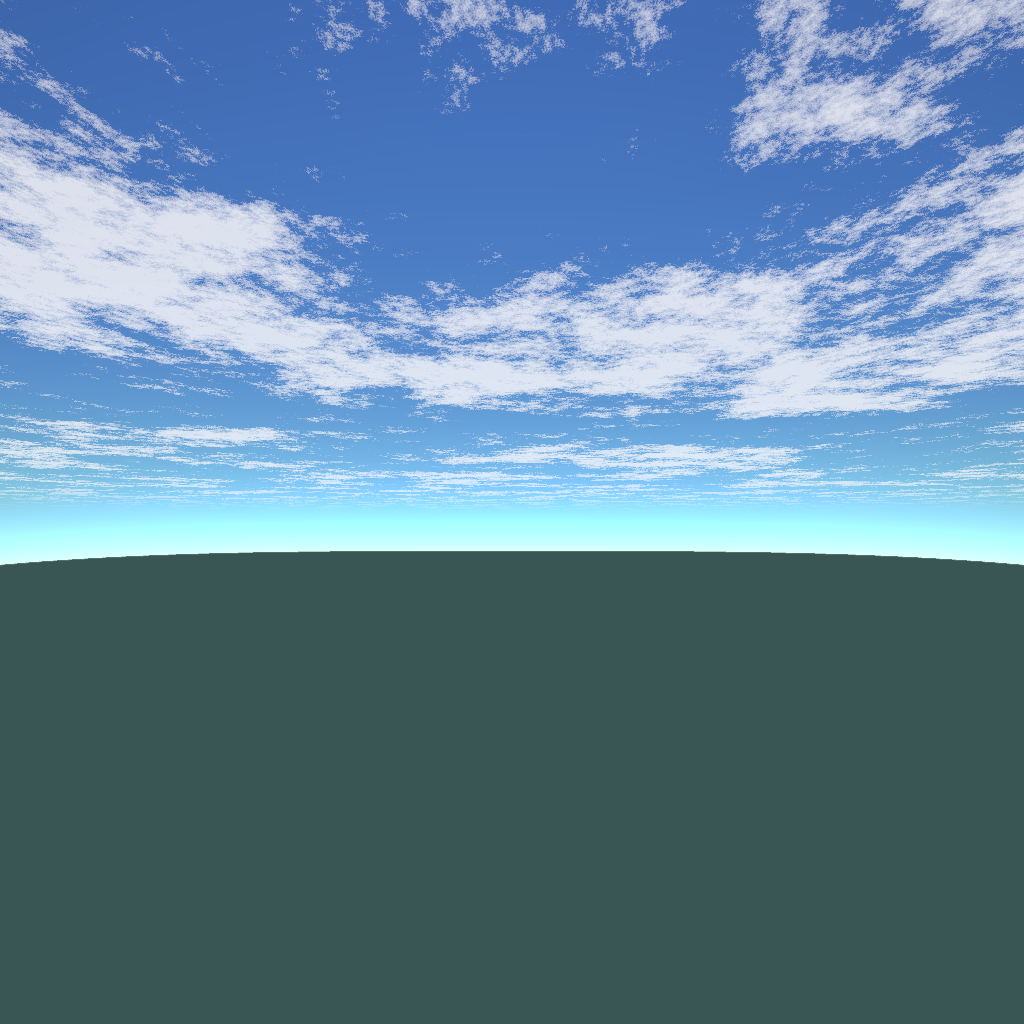
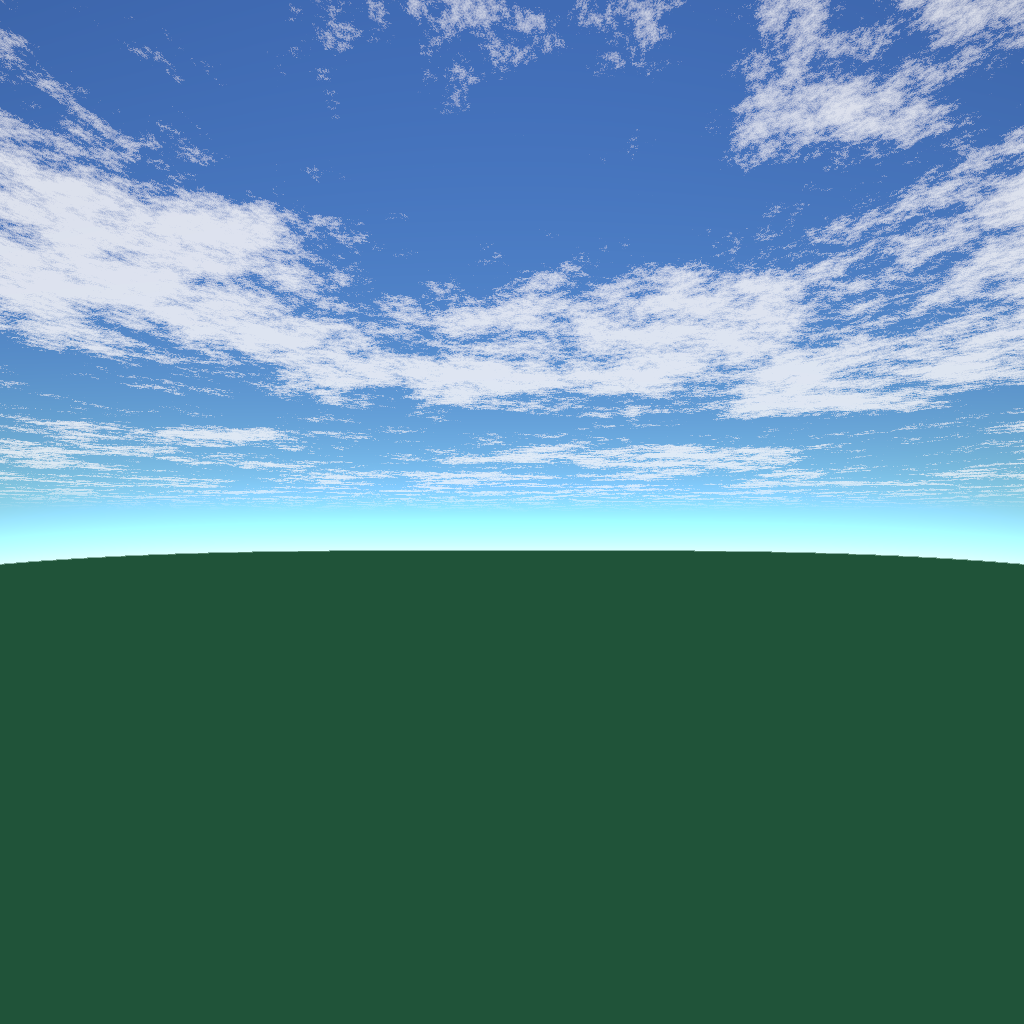
Grass scaling based on height and fixes

diff --git a/src/OpenGLWindow.cpp b/src/OpenGLWindow.cpp
@@ -277,7 +277,7 @@ void OpenGLWindow::paintGL()
 	time = timer.elapsed() / 10;
 
 	gl->glViewport(0, 0, windowWidth * retinaScale, windowHeight * retinaScale);
-	gl->glClearColor(0.25, 0.3, 0.3, 1.0);
+	gl->glClearColor(0.45, 0.5, 0.5, 1.0);
 	gl->glClear(GL_COLOR_BUFFER_BIT | GL_DEPTH_BUFFER_BIT | GL_STENCIL_BUFFER_BIT);
 
 	/* INITIALIZE GUI */
@@ -382,6 +382,7 @@ void OpenGLWindow::initGui()
 		Text("Scene");
 
 		Checkbox("Wind", &windEnabled);
+		Checkbox("Lighting", &lightingEnabled);
 		Checkbox("Skybox", &skyboxEnabled);
 
 		Text("Camera");
@@ -446,6 +447,7 @@ void OpenGLWindow::drawGrass()
 	GLint uTime			= gl->glGetUniformLocation(grassShaderProgram->getId(), "uTime");
 	GLint uFieldSize	= gl->glGetUniformLocation(grassShaderProgram->getId(), "uFieldSize");
 	GLint uWindEnabled	= gl->glGetUniformLocation(grassShaderProgram->getId(), "uWindEnabled");
+	GLint uLightingEnabled = gl->glGetUniformLocation(grassShaderProgram->getId(), "uLightingEnabled");
 	GLint uAlphaTexture = gl->glGetUniformLocation(grassShaderProgram->getId(), "uAlphaTexture");
 	GLint uHeightMap	= gl->glGetUniformLocation(grassShaderProgram->getId(), "uHeightMap");
 	GLint uCameraPos	= gl->glGetUniformLocation(grassShaderProgram->getId(), "uCameraPos");
@@ -466,6 +468,7 @@ void OpenGLWindow::drawGrass()
 	gl->glUniform1f(uFieldSize, grassField->getFieldSize());
 	gl->glUniform1f(uMaxDistance, maxDistance);
 	gl->glUniform1i(uWindEnabled, windEnabled);
+	gl->glUniform1i(uLightingEnabled, lightingEnabled);
 	gl->glUniform1i(uAlphaTexture, 0);
 	gl->glUniform1i(uHeightMap, 1);
 

diff --git a/src/Terrain.cpp b/src/Terrain.cpp
@@ -54,8 +54,8 @@ void Terrain::generateTerrain()
         {
             float normalizedHeight = (float)row / (rows - 1);
             float normalizedWidth  = (float)col / (cols - 1);
-            float xOffset = glm::mix( -terrainSize / 2, terrainSize / 2, normalizedWidth);
-            float zOffset = glm::mix(terrainSize / 2, -terrainSize / 2, normalizedHeight);
+            float xOffset = glm::mix(-terrainSize / 2,  terrainSize / 2, normalizedWidth);
+            float zOffset = glm::mix( terrainSize / 2, -terrainSize / 2, normalizedHeight);
             terrainVertices->push_back(glm::vec2(xOffset, zOffset));
         }
     }
@@ -77,4 +77,13 @@ void Terrain::generateTerrain()
         // Restart triangle strips
         terrainIndices->push_back(restartIndex);
     }
+
+    /* Generate normals */
+    glm::vec2 v = terrainVertices->at(rowColToIndex(0,0)); // row col
+    v.length;
+}
+
+int Terrain::rowColToIndex(int row, int col)
+{
+    return row * cols + col;
 }

diff --git a/src/GrassField.cpp b/src/GrassField.cpp
@@ -147,8 +147,8 @@ void GrassField::generateRandoms()
 {
 	/* Rendering pipeline random values */
 	randoms[0] = glm::linearRand(0.00f, 360.0f);	// angle
-	randoms[1] = glm::linearRand(0.00f, 1.00f);		// x offset
-	randoms[2] = glm::linearRand(0.00f, 1.00f);		// z offset
+	randoms[1] = glm::linearRand(-1.00f, 1.00f);	// x offset
+	randoms[2] = glm::linearRand(-1.00f, 1.00f);	// z offset
 	randoms[3] = glm::linearRand(-0.25f, 0.25f);	// TCS
 	randoms[4] = glm::linearRand(0.75f, 1.25f);		// TCS
 	randoms[5] = glm::linearRand(0.00f, 0.05f);		// R

diff --git a/src/OpenGLWindow.hpp b/src/OpenGLWindow.hpp
@@ -71,6 +71,7 @@ private:
 	int windowHeight;
 
 	bool windEnabled = true;
+	bool lightingEnabled = true;
 	bool skyboxEnabled = true;
 	bool guiEnabled = true;
 

diff --git a/src/Terrain.hpp b/src/Terrain.hpp
@@ -23,6 +23,8 @@ public:
 protected:
     void generateTerrain();
 
+    int rowColToIndex(int row, int col);
+
 private:
     float terrainSize;
     int rows;
